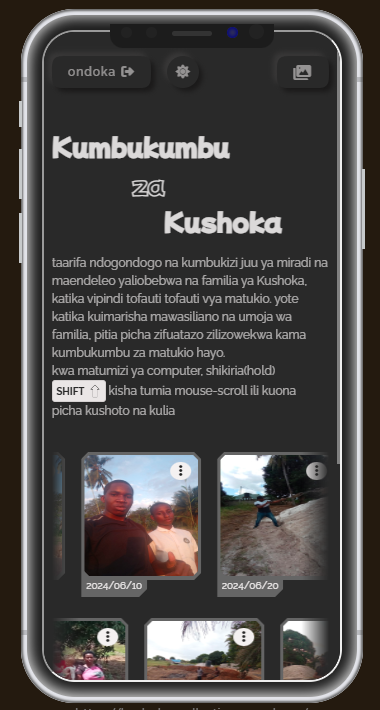
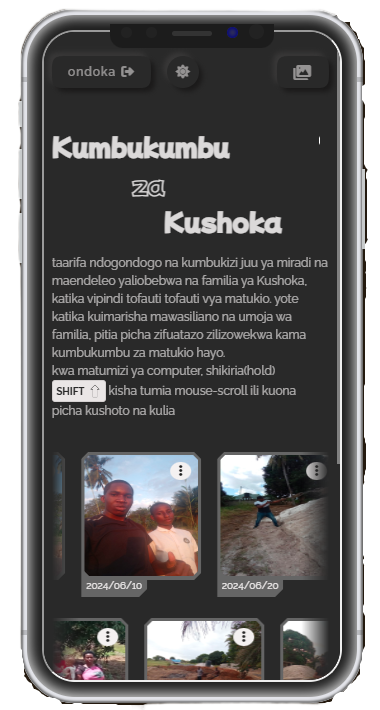
docs: readme-update-2.1

Changed region(s): [[0.0, 0.0, 1.0, 1.0]]

diff --git a/src/App.jsx b/src/App.jsx
@@ -169,7 +169,7 @@ function App() {
        else {
         setLoggedIn(true)
         setName("")
-        setPasswd("")
+        setFormError("")
         setIsAdminForm(false)
        }
     }
